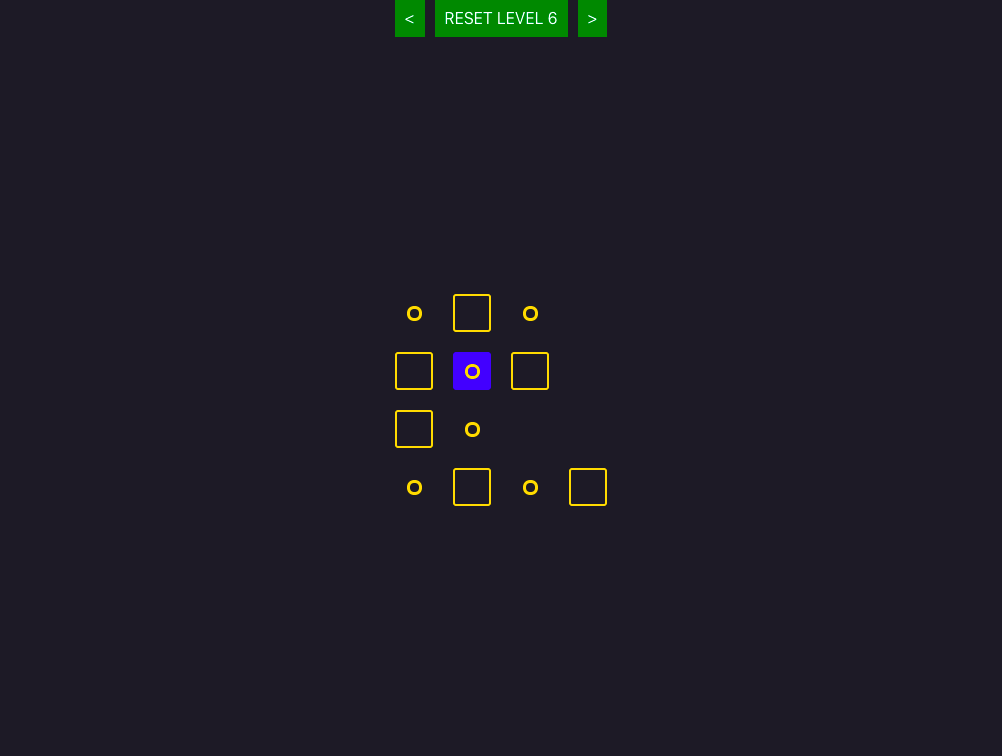
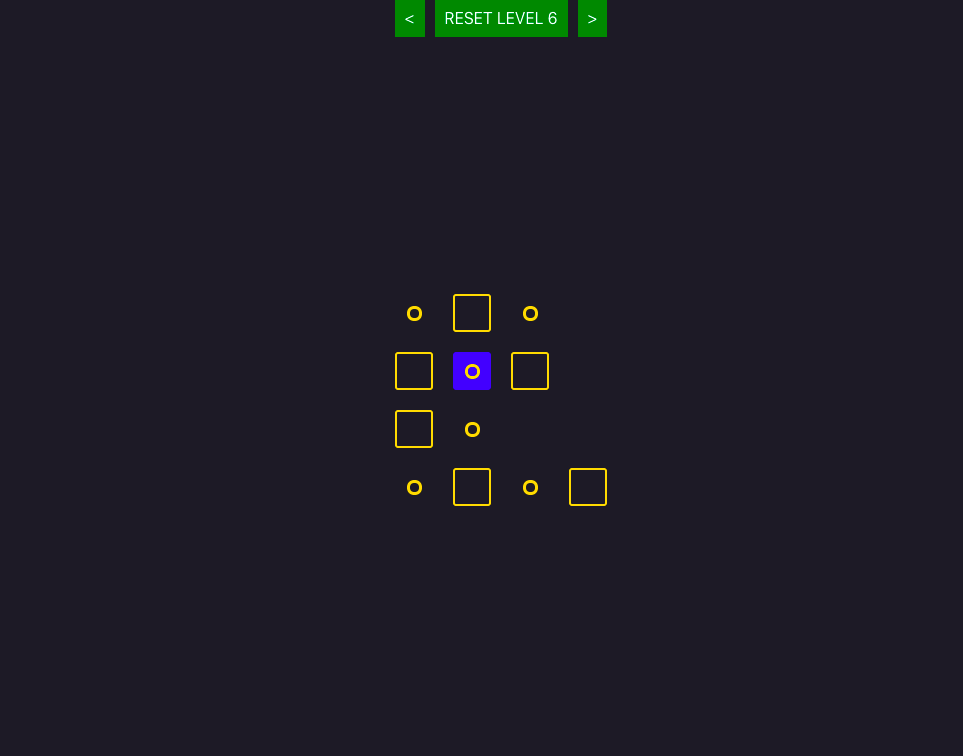
Fix readme image

diff --git a/README.md b/README.md
@@ -2,4 +2,4 @@
 
 Simple puzzle game inspired by French solitaire. Merge neighbor squares and let the last one lay on the marked destination.
 
-![Screenshot](screenshots/screenshot1.png)
+![Screenshot](screenshots/screenshot2.png)
